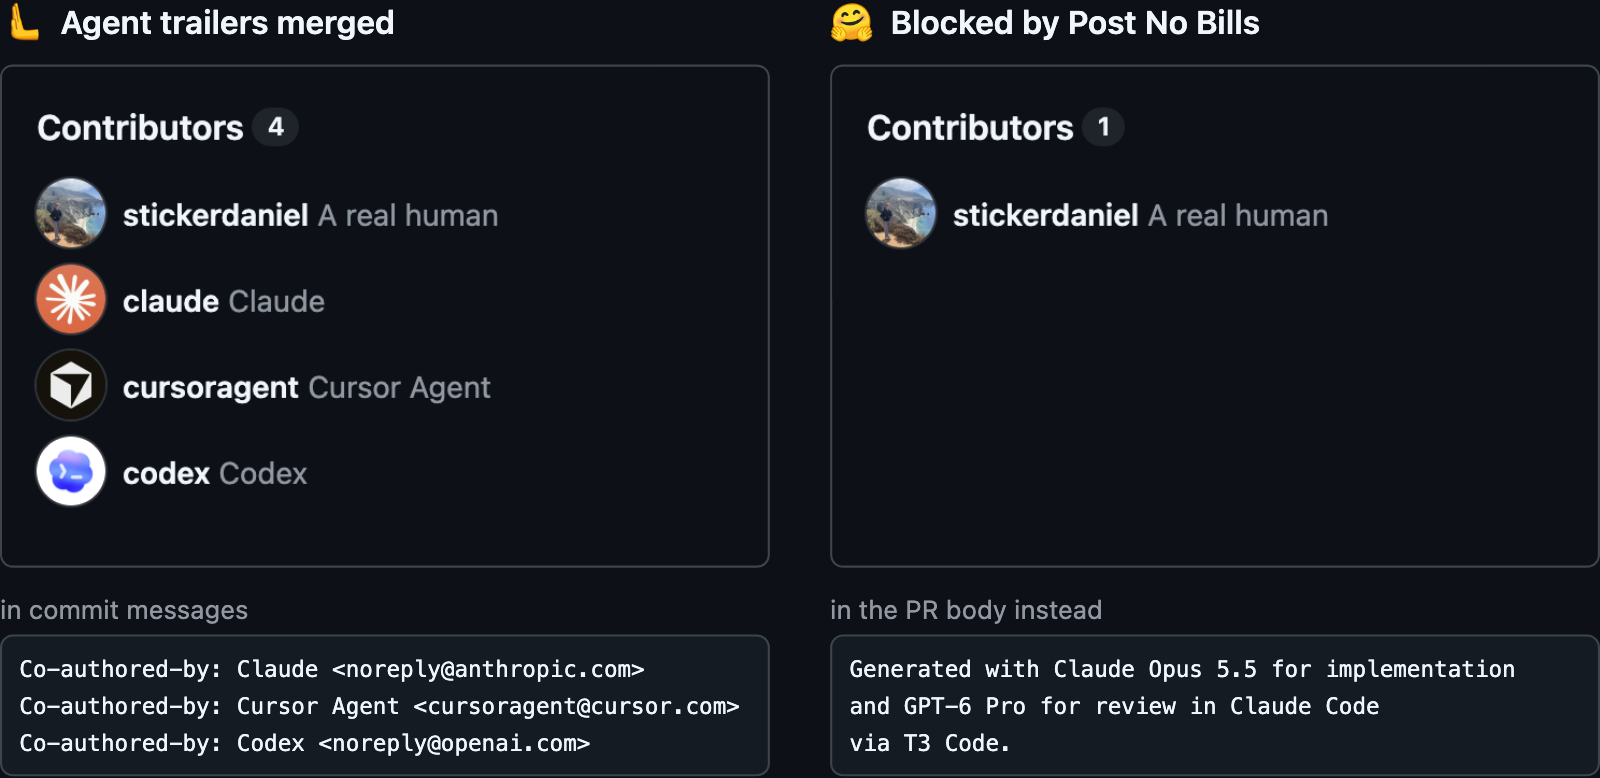
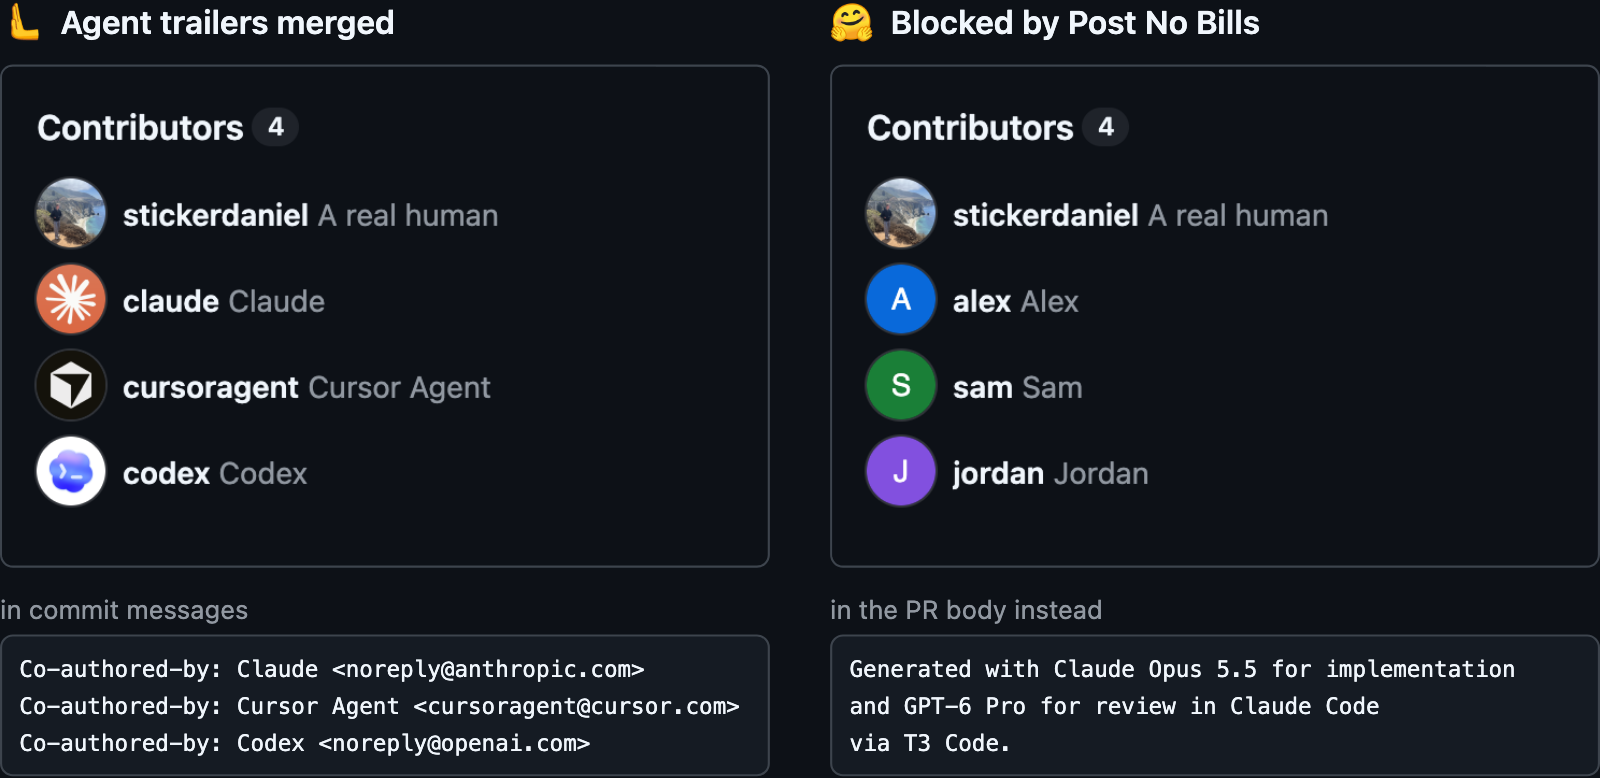
docs: Fill the blocked list with people

Changed region(s): [[0.5312, 0.3393, 0.7188, 0.6478], [0.6875, 0.1542, 0.7188, 0.1851]]

diff --git a/README.md b/README.md
@@ -9,7 +9,7 @@ Agents write the code, people sign it. Models are disclosed in the PR body.
 <p>
 <picture>
   <source media="(prefers-color-scheme: dark)" srcset="docs/hero-dark.png">
-  <img alt="Left, agent trailers merged: the Contributors list shows 4, stickerdaniel, claude, cursoragent and codex, after commit messages with Co-authored-by trailers for Claude, Cursor Agent and Codex. Right, blocked by Post No Bills: the list shows only stickerdaniel, and the PR body ends with Generated with Claude Opus 5.5 for implementation and GPT-6 Pro for review in Claude Code via T3 Code." src="docs/hero-light.png" width="800">
+  <img alt="Left, agent trailers merged: the Contributors list shows 4, stickerdaniel, claude, cursoragent and codex, after commit messages with Co-authored-by trailers for Claude, Cursor Agent and Codex. Right, blocked by Post No Bills: the list shows stickerdaniel, alex, sam and jordan, and the PR body ends with Generated with Claude Opus 5.5 for implementation and GPT-6 Pro for review in Claude Code via T3 Code." src="docs/hero-light.png" width="800">
 </picture>
 </p>
 
